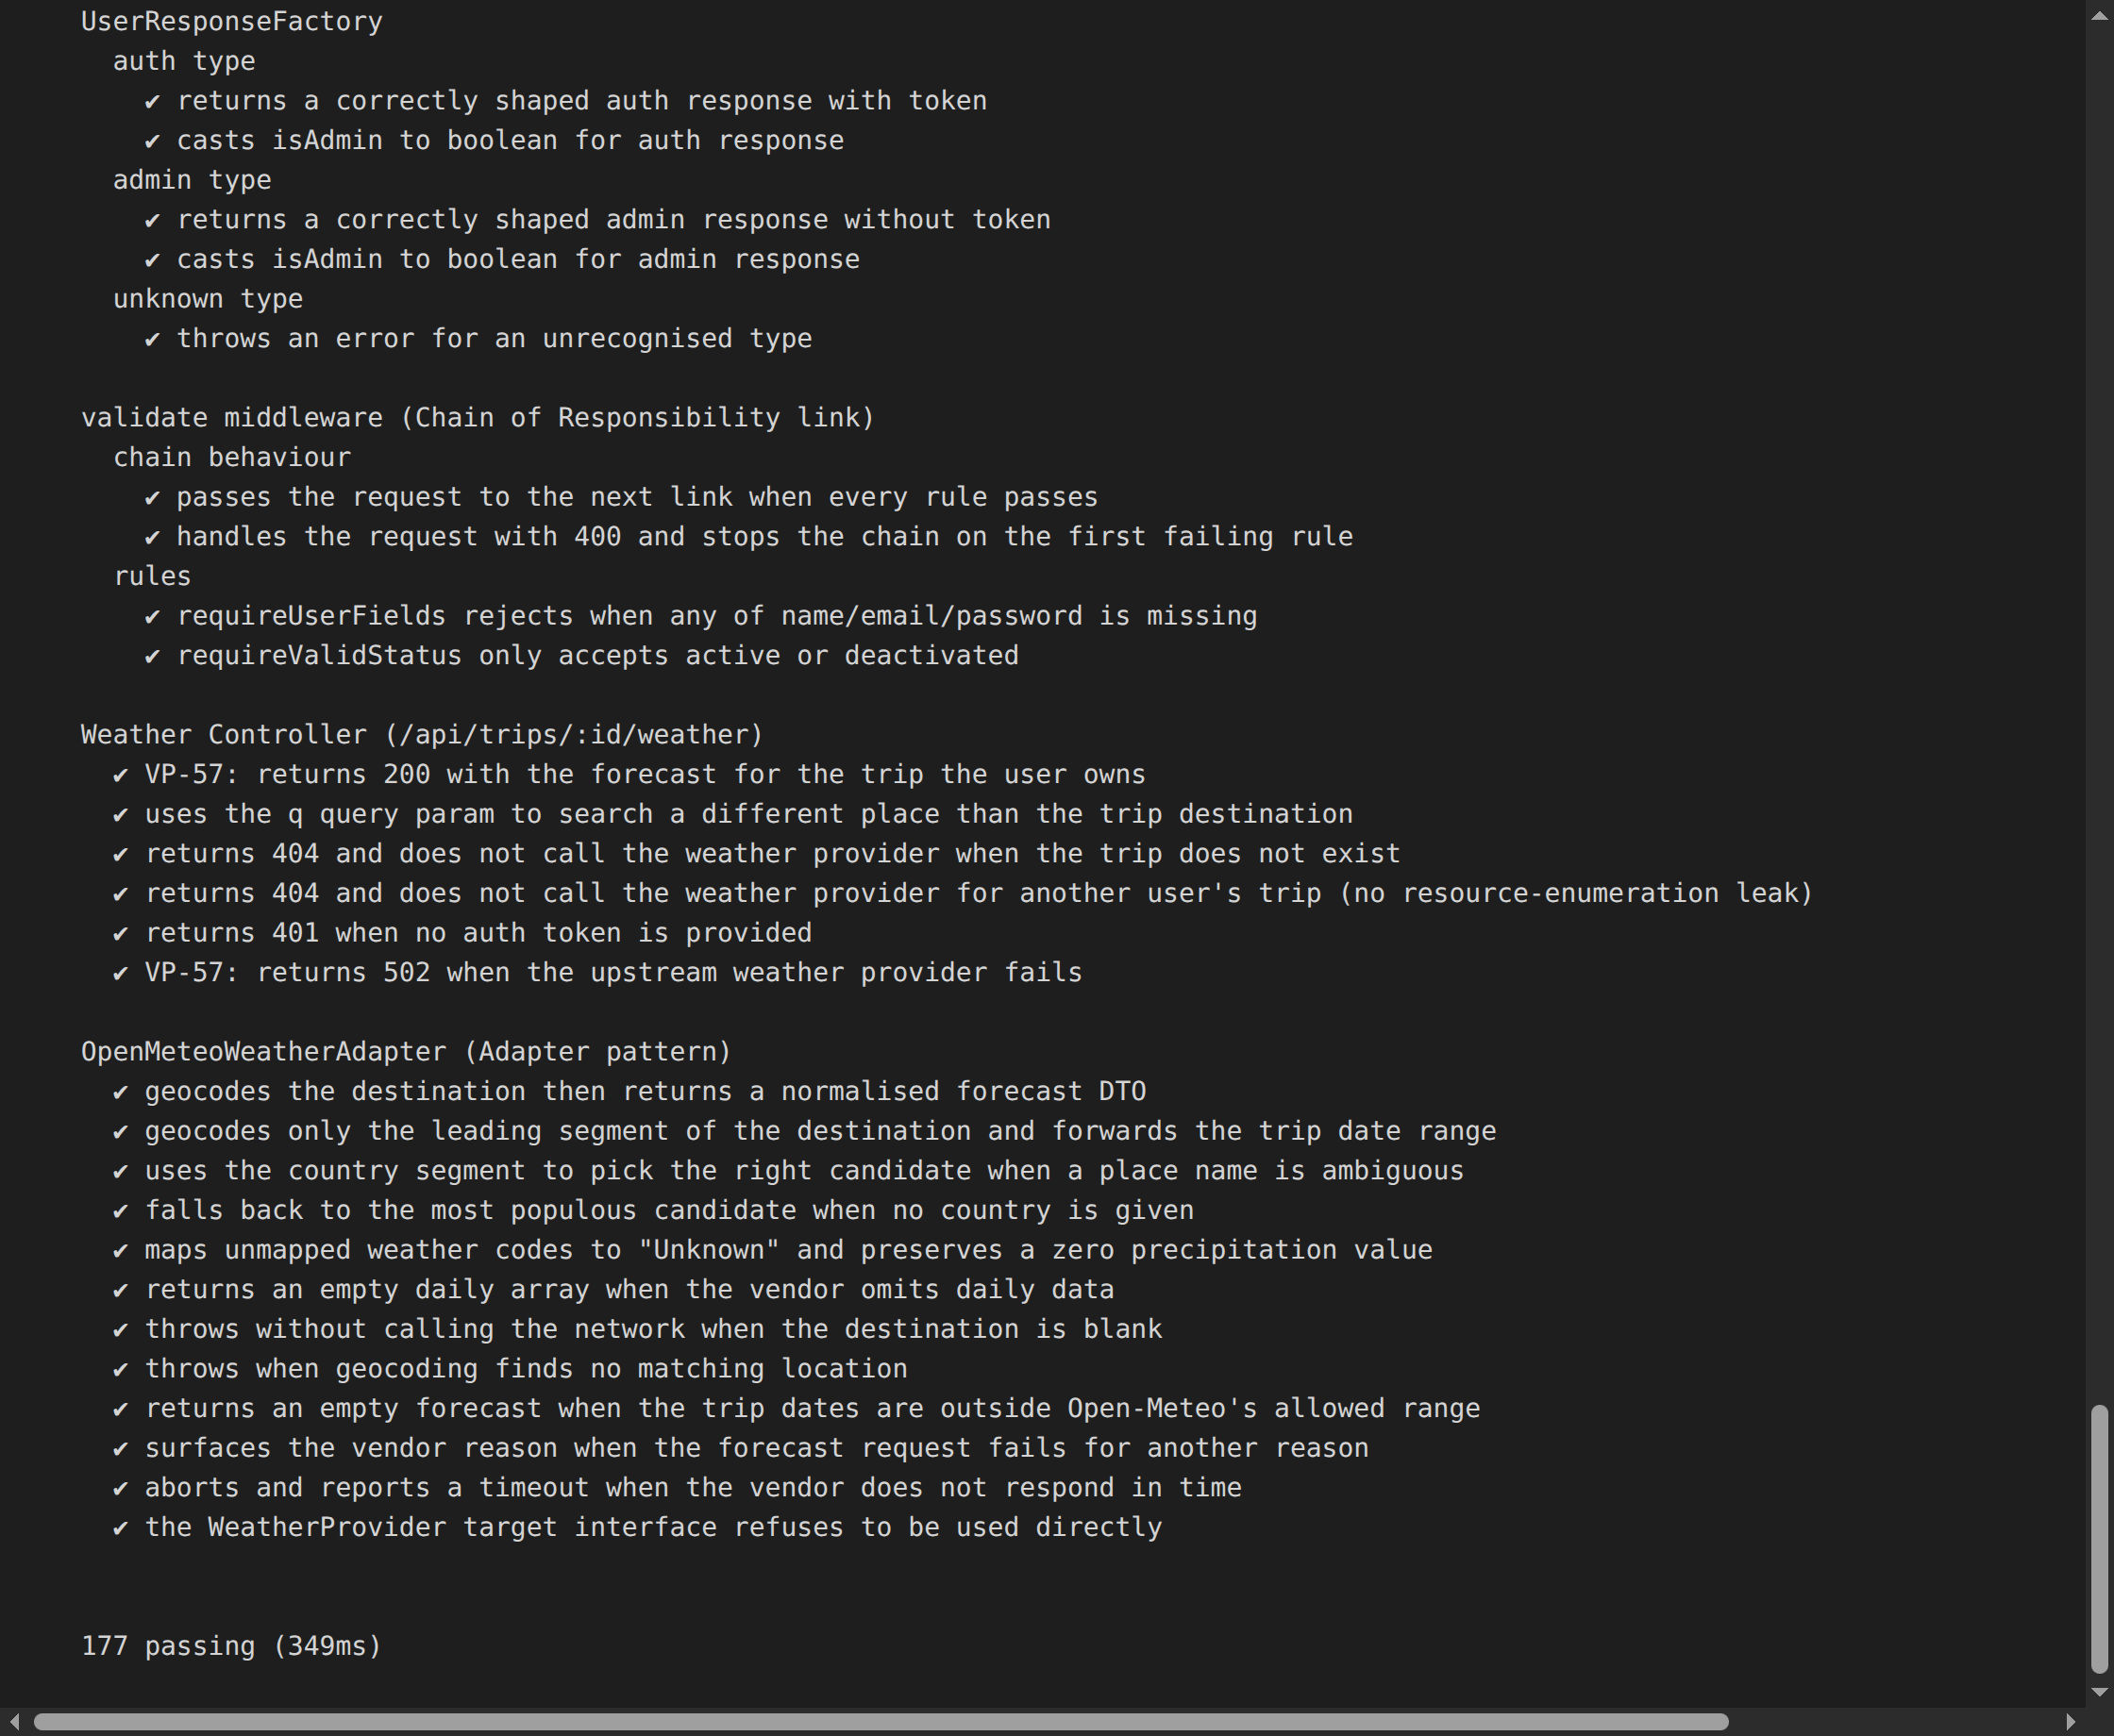
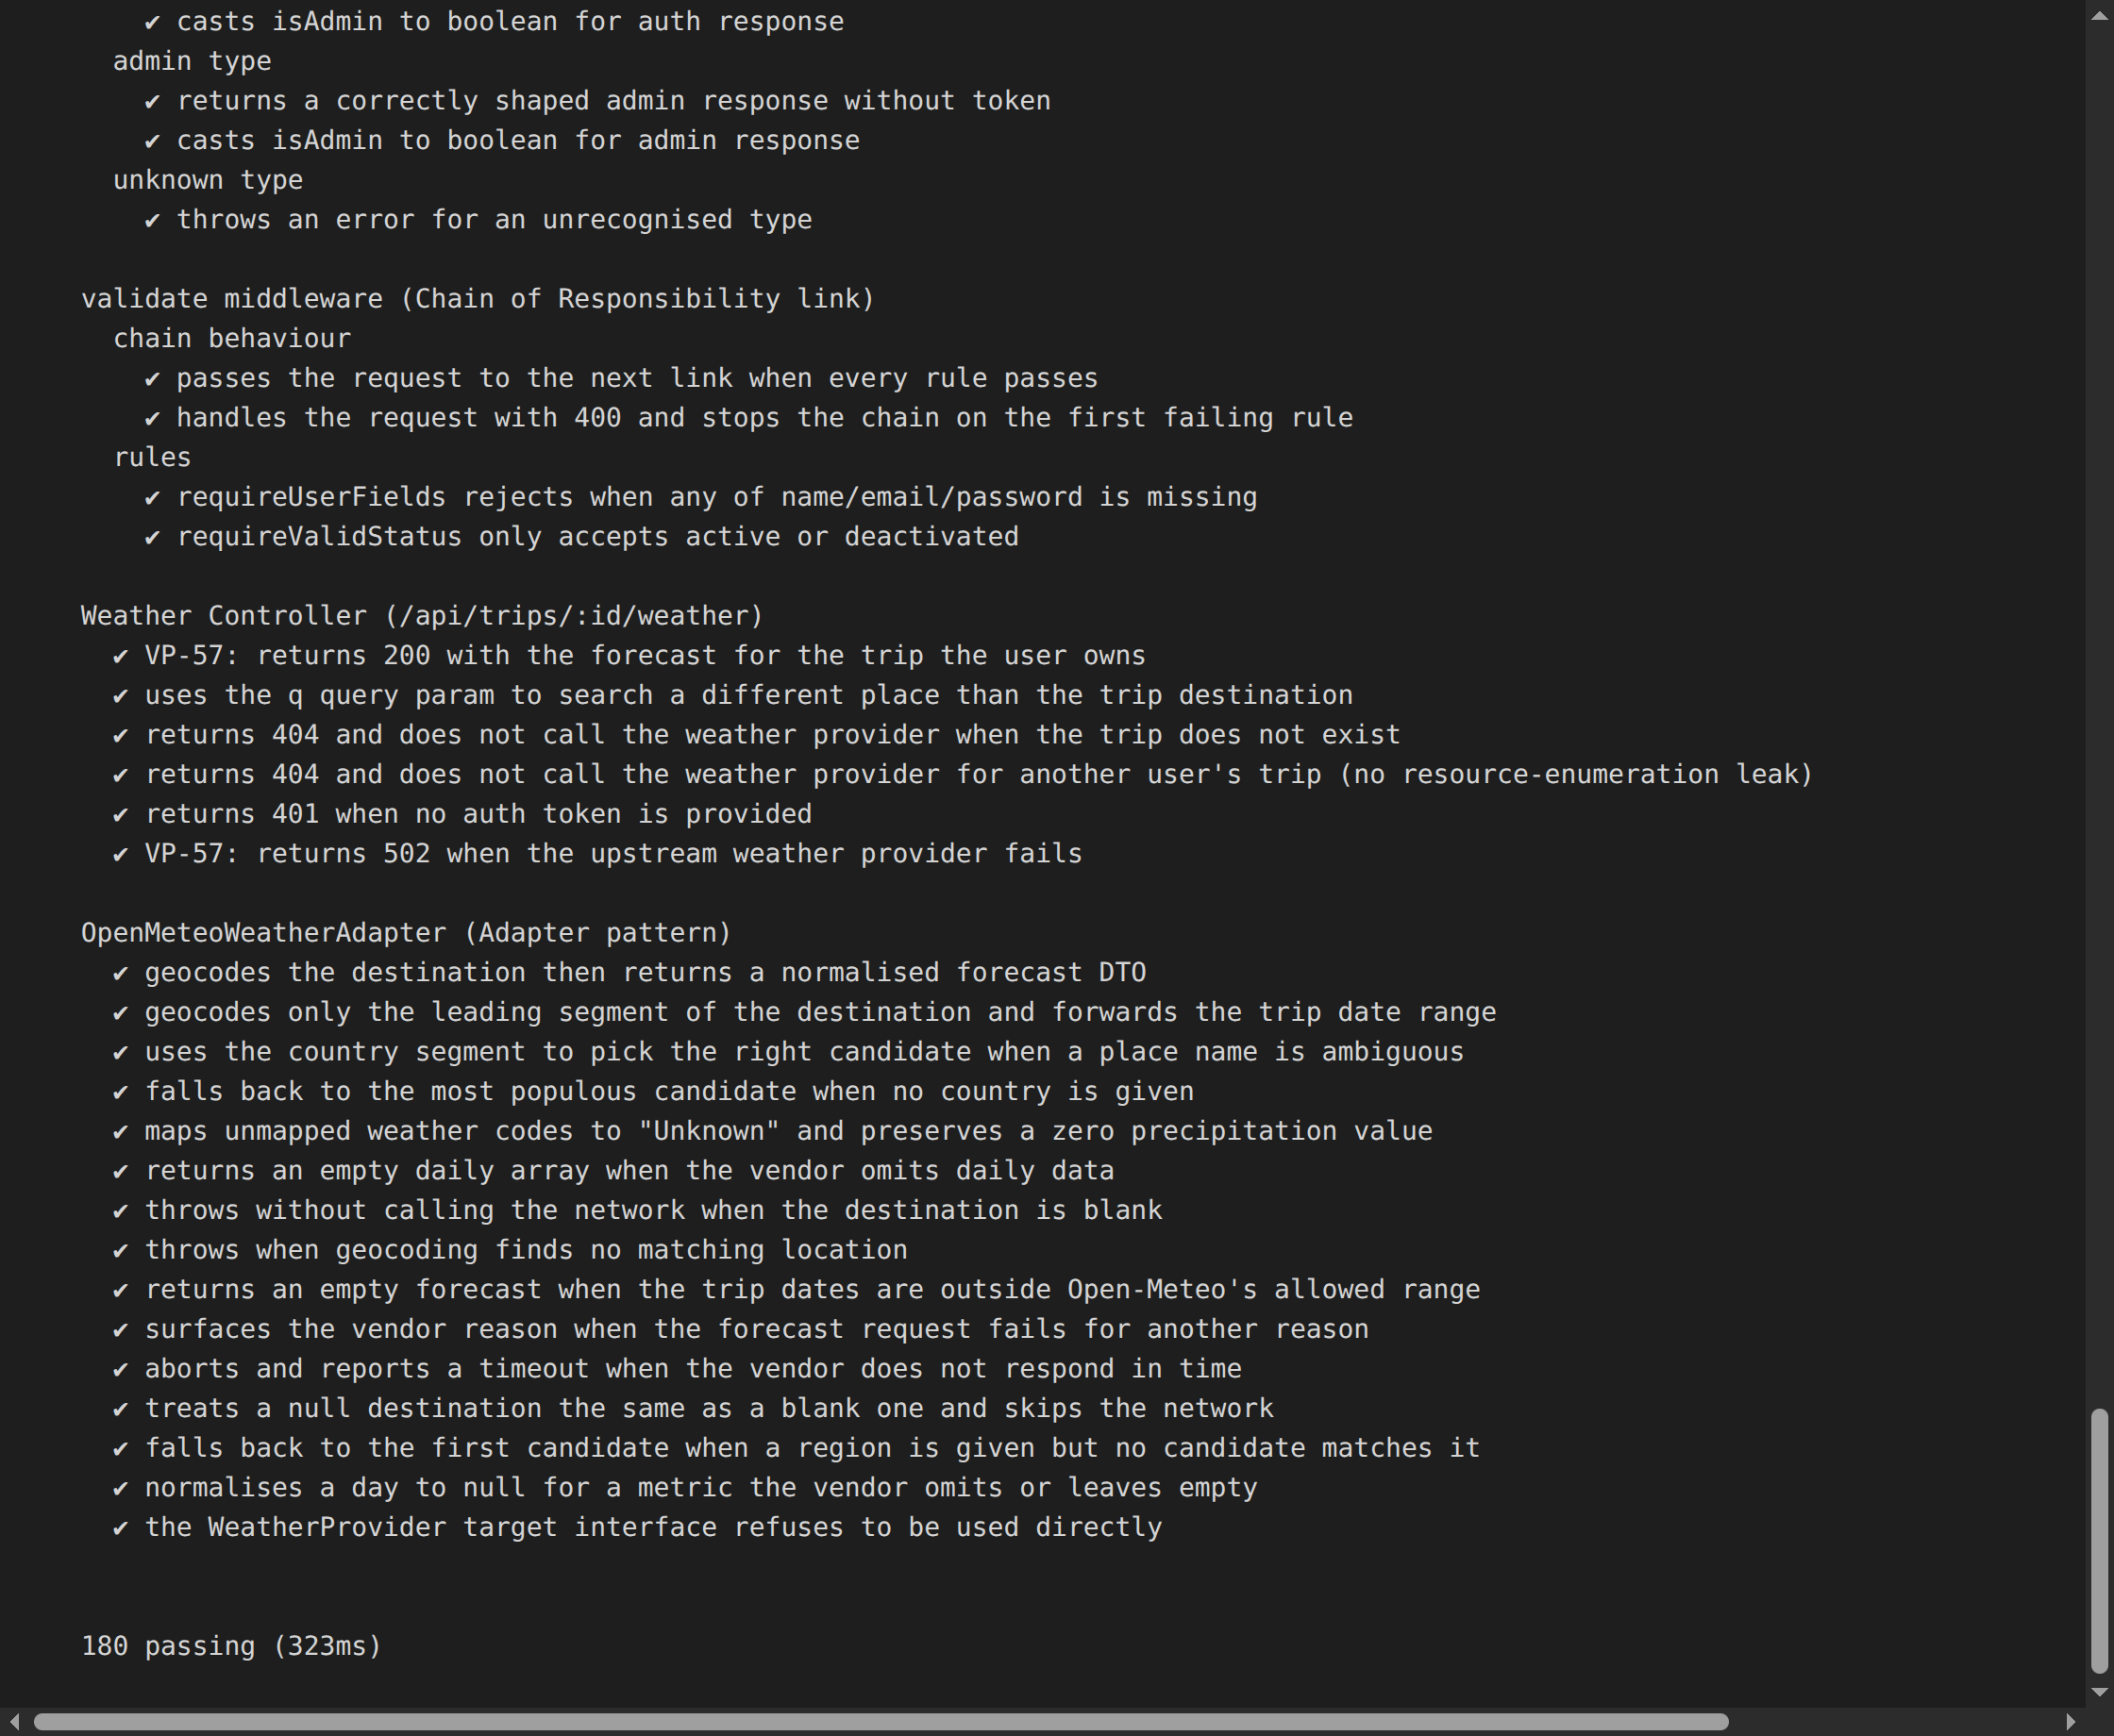
test: cover weatherAdapter defensive branches and refresh 5.1 figures
- add three weatherAdapter tests (null destination, unmatched-region fallback, omitted/null metric normalisation)
- branch coverage 97.78% -> 99.26% (weatherAdapter 90.56% -> 98.14%); suite 177 -> 180
- update 5.1 counts (twelve -> fifteen adapter tests, 177 -> 180 passing) and coverage figures; re-shoot Figs 5.1.2/5.1.3
- update video runsheet unit-testing numbers to match

diff --git a/backend/test/weatherAdapter.test.js b/backend/test/weatherAdapter.test.js
@@ -241,6 +241,58 @@ describe('OpenMeteoWeatherAdapter (Adapter pattern)', () => {
         expect(error.message).to.match(/timed out/i);
     });
 
+    it('treats a null destination the same as a blank one and skips the network', async () => {
+        const fetchFn = makeFetch([]);
+        const adapter = new OpenMeteoWeatherAdapter({ fetchFn });
+
+        let error;
+        try {
+            await adapter.getForecast({ location: null });
+        } catch (err) {
+            error = err;
+        }
+
+        expect(error).to.be.an('error');
+        expect(error.message).to.match(/destination is required/i);
+        expect(fetchFn.calls).to.have.lengthOf(0);
+    });
+
+    it('falls back to the first candidate when a region is given but no candidate matches it', async () => {
+        const geocode = {
+            results: [
+                { name: 'Springfield', country: 'United States', country_code: 'US', admin1: 'Illinois', latitude: 39.8, longitude: -89.6 },
+                { name: 'Springfield', country: 'United States', country_code: 'US', admin1: 'Missouri', latitude: 37.2, longitude: -93.3 },
+            ],
+        };
+        const fetchFn = makeFetch([jsonResponse(geocode), jsonResponse(FORECAST_BODY)]);
+        const adapter = new OpenMeteoWeatherAdapter({ fetchFn });
+
+        const forecast = await adapter.getForecast({ location: 'Springfield, Atlantis' });
+
+        // 'Atlantis' matches no candidate field, so the adapter keeps the first result.
+        expect(forecast.location).to.equal('Springfield, Illinois, United States');
+    });
+
+    it('normalises a day to null for a metric the vendor omits or leaves empty', async () => {
+        const partialForecast = {
+            daily: {
+                time: ['2026-07-01'],
+                weathercode: [0],
+                temperature_2m_max: [30.0],
+                // temperature_2m_min omitted entirely, so pick() sees a non-array
+                precipitation_sum: [null], // present, but the element itself is null
+            },
+        };
+        const fetchFn = makeFetch([jsonResponse(GEOCODE_BODY), jsonResponse(partialForecast)]);
+        const adapter = new OpenMeteoWeatherAdapter({ fetchFn });
+
+        const forecast = await adapter.getForecast({ location: 'Kyoto' });
+
+        expect(forecast.daily[0].tempMinC).to.equal(null);
+        expect(forecast.daily[0].precipitationMm).to.equal(null);
+        expect(forecast.daily[0].tempMaxC).to.equal(30.0);
+    });
+
     it('the WeatherProvider target interface refuses to be used directly', async () => {
         let error;
         try {

diff --git a/document_draft.md b/document_draft.md
@@ -262,16 +262,16 @@ State is used as a behavioural pattern to enforce the trip lifecycle defined in 
 
 VacayPlan's backend is tested using Mocha as the test runner and Chai for assertions, with Sinon providing stubs for MongoDB and external HTTP calls. The suite is organised by controller and middleware, with each file grouping related test cases under descriptive `describe` blocks. Tests cover the full set of CRUD operations for trips, activities, users, and auth, as well as edge cases including missing fields, invalid status transitions, wrong-owner access attempts, and upstream weather provider failures.
 
-The Chain of Responsibility middleware (`protect`, `adminProtect`, `validate`) is tested in isolation to verify each link handles its responsibility correctly and passes control to the next link only when its own conditions are met. The State pattern transitions (`planning → active → completed`) are covered by six dedicated tests that assert both valid forward progressions and rejected backward or skip moves. The Adapter pattern (`OpenMeteoWeatherAdapter`) includes twelve tests covering geocoding, normalisation, timeout handling, and edge cases such as blank destinations and out-of-range dates.
+The Chain of Responsibility middleware (`protect`, `adminProtect`, `validate`) is tested in isolation to verify each link handles its responsibility correctly and passes control to the next link only when its own conditions are met. The State pattern transitions (`planning → active → completed`) are covered by six dedicated tests that assert both valid forward progressions and rejected backward or skip moves. The Adapter pattern (`OpenMeteoWeatherAdapter`) includes fifteen tests covering geocoding, normalisation, timeout handling, and edge cases such as blank destinations, unmatched regions, omitted metrics, and out-of-range dates.
 
-All 177 tests pass with no failures or pending cases (Figs 5.1.1-5.1.2). The suite runs in under one second, confirming no test introduces blocking I/O. Tests are executed in CI on every push via GitHub Actions, providing continuous regression coverage across the team's branches.
+All 180 tests pass with no failures or pending cases (Figs 5.1.1-5.1.2). The suite runs in under one second, confirming no test introduces blocking I/O. Tests are executed in CI on every push via GitHub Actions, providing continuous regression coverage across the team's branches.
 
-Code coverage is measured with c8 and stands at 99.54% of statements, 97.78% of branches, and 100% of functions (Fig 5.1.3). The only uncovered code is the `server.js` bootstrap guard, which runs solely when the file is executed directly rather than under test, and a small number of defensive branches in the weather adapter.
+Code coverage is measured with c8 and stands at 99.54% of statements, 99.26% of branches, and 100% of functions (Fig 5.1.3). The only uncovered code is the `server.js` bootstrap guard, which runs solely when the file is executed directly rather than under test, and one unreachable fall-through branch in the weather adapter's request helper.
 
 **Fig 5.1.1** - Test suite output (top)
 ![Fig 5.1.1](planning/screenshots/2026-06-28-backend-tests-top-rodlunt.png)
 
-**Fig 5.1.2** - Test suite output, 177 passing (bottom)
+**Fig 5.1.2** - Test suite output, 180 passing (bottom)
 ![Fig 5.1.2](planning/screenshots/2026-06-28-backend-tests-bottom-rodlunt.png)
 
 **Fig 5.1.3** - c8 coverage summary

diff --git a/planning/A2_Video_Runsheet.md b/planning/A2_Video_Runsheet.md
@@ -37,7 +37,7 @@ camera. One member uploads the final cut to Canvas Studio.
 ### 2. Rodney - 8:30
 
 - **CI/CD pipeline + deploy (Step 7):** walk `.github/workflows/ci.yml`, show a green Actions run, `pm2 status` on the EC2 box, and the live URL serving the latest build. Mention the separate PR Checks workflow that gates pull requests.
-- **Unit testing (Step 5):** run the mocha suite (142 passing), then `npm run coverage` to show the c8 table (~92% statements). Screenshot both for the report.
+- **Unit testing (Step 5):** run the mocha suite (180 passing), then `npm run coverage` to show the c8 table (99.54% statements, 99.26% branches, 100% functions). Screenshot both for the report.
 - **Postman - auth + admin folder (Step 6):** run the Auth and Admin requests, including the failure cases (401/403).
 - **Patterns owned:** Singleton (`config/db.js`), Facade (`services/`), Chain of Responsibility (the `protect` -> `adminProtect` -> `validate` middleware chain).
 